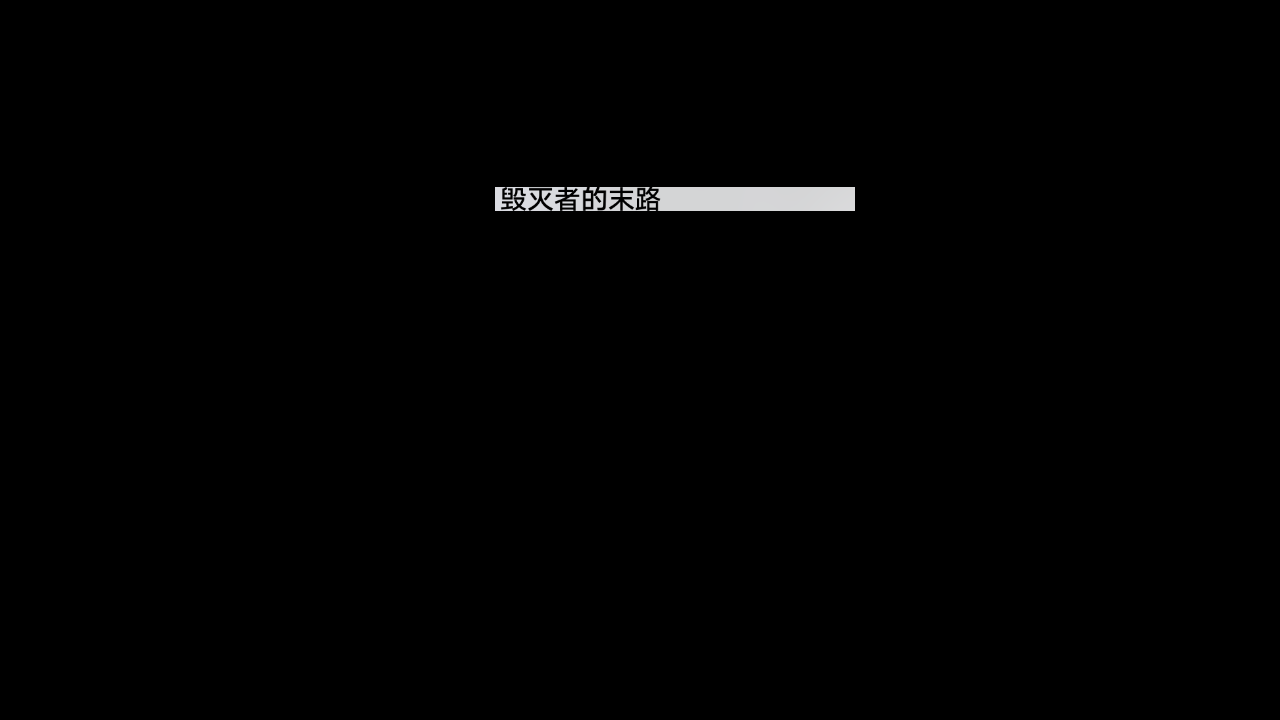
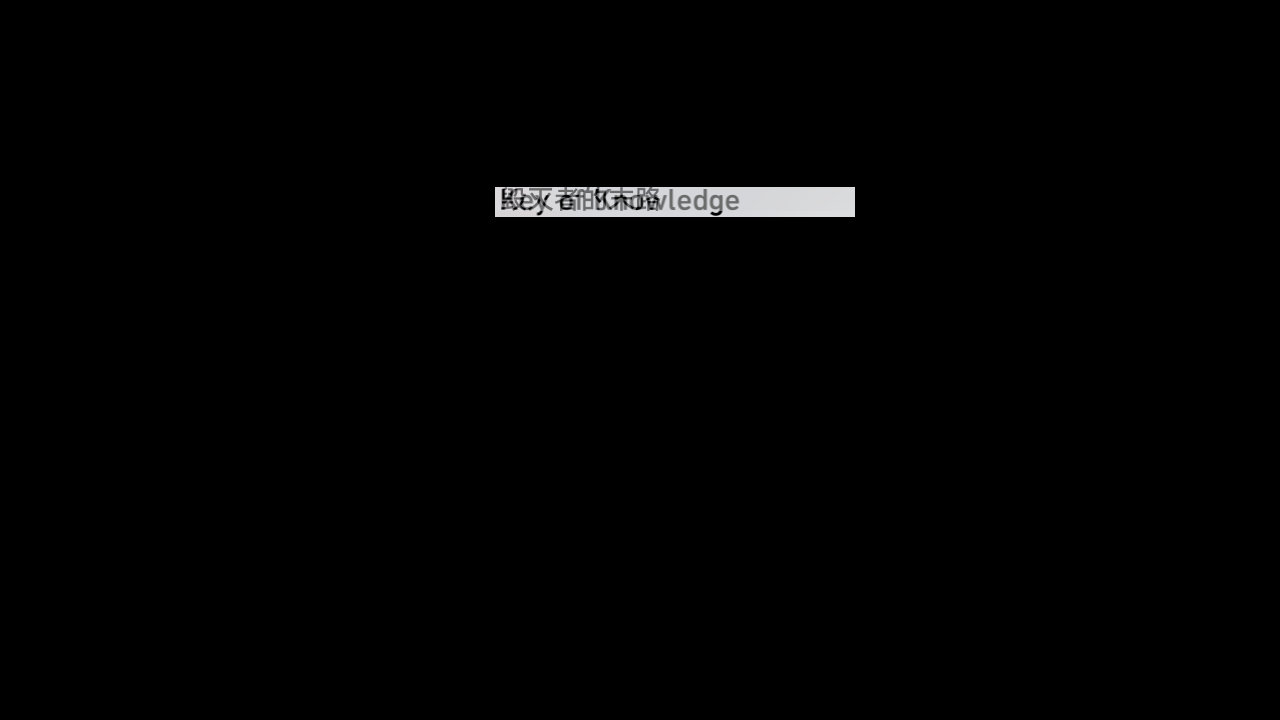
Fix: [EN] Enlarge ITEM_NAME to detect letter g

Changed region(s): [[0.375, 0.2444, 0.6875, 0.3056]]

diff --git a/tasks/combat/assets/assets_combat_obtain.py b/tasks/combat/assets/assets_combat_obtain.py
@@ -27,10 +27,10 @@ ITEM_NAME = ButtonWrapper(
     name='ITEM_NAME',
     share=Button(
         file='./assets/share/combat/obtain/ITEM_NAME.png',
-        area=(495, 187, 855, 211),
-        search=(475, 167, 875, 231),
-        color=(176, 177, 179),
-        button=(495, 187, 855, 211),
+        area=(495, 187, 855, 217),
+        search=(475, 167, 875, 237),
+        color=(182, 183, 185),
+        button=(495, 187, 855, 217),
     ),
 )
 MAY_OBTAIN = ButtonWrapper(
